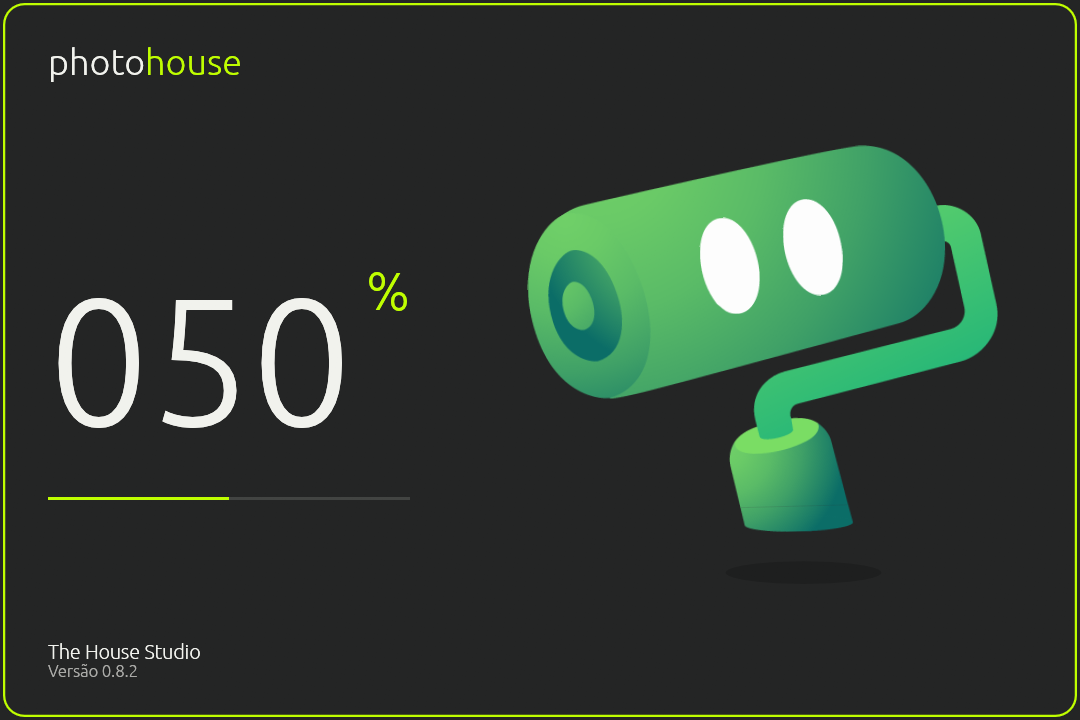
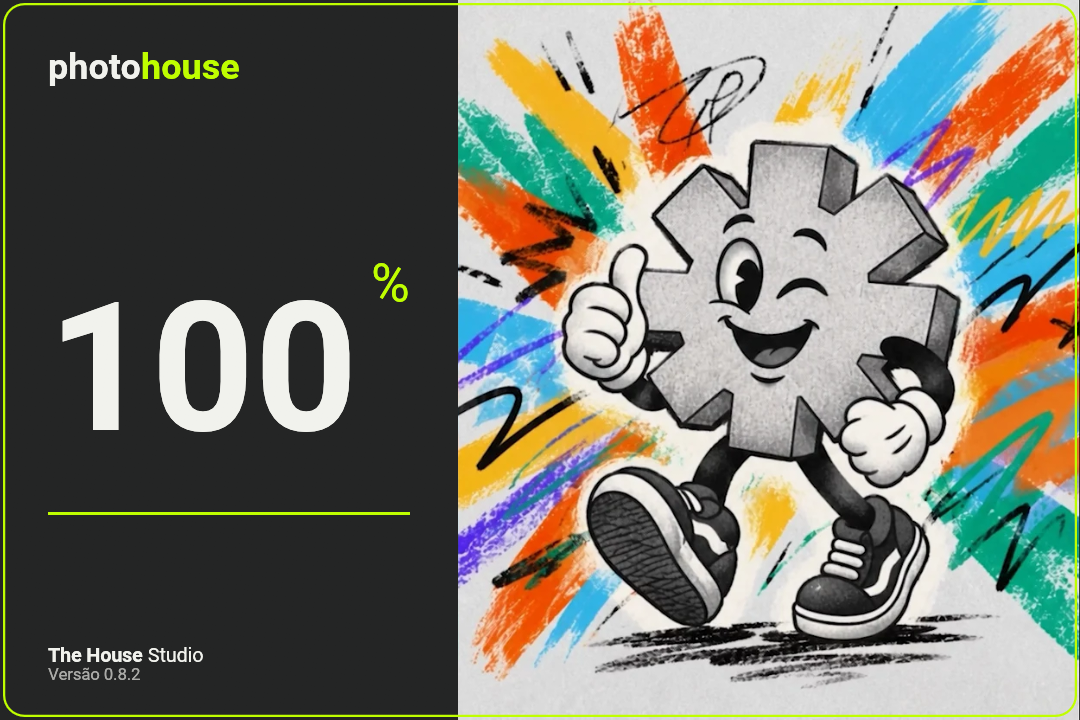
FIX: restaura abertura do checkpoint 9e0ef514

diff --git a/apps/photocraft/src/startup_splash.rs b/apps/photocraft/src/startup_splash.rs
@@ -1,42 +1,73 @@
-//! PhotoHouse's native startup window: the animated mascot (`photocraft_ui_egui::mascote`) and a counter.
+//! PhotoHouse's native startup window. One clock drives the counter and the Housinho frames.
 //! The editor waits for this short-lived child process; its own viewport is never resized.
-//! Anything that goes wrong here (no GPU, panic, Esc/Alt+F4) only skips the splash: the editor
-//! always opens afterwards. The mascot rasterizes within `max_texture_side` and draws nothing if
-//! that fails.
-use std::sync::Arc;
+use std::sync::{
+    Arc,
+    atomic::{AtomicBool, Ordering},
+};
 use std::time::{Duration, Instant};
 
 use egui::{Align2, Color32, FontFamily, FontId, Rect, Stroke, StrokeKind, Vec2};
 
 const FLAG: &str = "--photohouse-startup-splash";
-const DURATION: Duration = Duration::from_millis(1600);
+const DURATION: Duration = Duration::from_millis(4160);
+const FINAL_HOLD: Duration = Duration::from_millis(200);
+const FRAME_COUNT: usize = 52;
 const GREEN: Color32 = Color32::from_rgb(191, 254, 0);
 const SURFACE: Color32 = Color32::from_rgb(36, 37, 37);
 const INK: Color32 = Color32::from_rgb(241, 242, 237);
+const SHEET: &[u8] = include_bytes!("../../../docs/design/photohouse-loading/assets/housinho-frames.webp");
 
 pub fn requested() -> bool {
     std::env::args_os().any(|arg| arg == FLAG)
 }
 
-/// Runs the splash as a child process and waits for it. Never blocks the editor from opening.
-pub fn before_editor() {
+/// Cancellation exits the entire launch. An unavailable splash never prevents editor recovery.
+pub fn before_editor() -> bool {
     let status = std::env::current_exe().and_then(|exe| std::process::Command::new(exe).arg(FLAG).status());
     match status {
-        Ok(status) if status.success() => log::info!("PhotoHouse startup animation closed; opening editor"),
-        Ok(status) => log::warn!("PhotoHouse startup animation failed ({status}); opening editor without it"),
-        Err(error) => log::warn!("PhotoHouse startup animation could not start ({error}); opening editor without it"),
+        Ok(status) if status.success() => {
+            log::info!("PhotoHouse: startup animation reached 100%; opening editor");
+            true
+        }
+        Ok(status) if status.code() == Some(130) => false,
+        Ok(status) => {
+            log::warn!("PhotoHouse startup window exited with {status}; opening editor in recovery mode");
+            true
+        }
+        Err(error) => {
+            log::warn!("PhotoHouse startup window: {error}; opening editor without the animation");
+            true
+        }
     }
 }
 
 #[derive(Debug, PartialEq)]
 struct Progress {
     percent: u32,
+    frame: usize,
     close: bool,
 }
 
 fn progress(elapsed: Duration) -> Progress {
     let fraction = (elapsed.as_secs_f64() / DURATION.as_secs_f64()).clamp(0.0, 1.0);
-    Progress { percent: if fraction >= 1.0 { 100 } else { (fraction * 100.0).floor() as u32 }, close: elapsed >= DURATION }
+    Progress {
+        percent: if fraction >= 1.0 { 100 } else { (fraction * 100.0).floor() as u32 },
+        frame: if fraction >= 1.0 { FRAME_COUNT - 1 } else { (fraction * (FRAME_COUNT - 1) as f64).floor() as usize },
+        close: elapsed >= DURATION + FINAL_HOLD,
+    }
+}
+
+fn frame_origin(frame: usize) -> [usize; 2] {
+    let frame = frame.min(FRAME_COUNT - 1);
+    [(frame % 8) * 720, (frame / 8) * 832]
+}
+
+fn upload_frame(ctx: &egui::Context, sheet: &egui::ColorImage, frame: usize) -> Result<egui::TextureHandle, std::io::Error> {
+    if sheet.size != [5760, 5824] || ctx.input(|i| i.max_texture_side) < 832 {
+        return Err(std::io::Error::other("PhotoHouse startup frames exceed the available texture size"));
+    }
+    let image = sheet.region_by_pixels(frame_origin(frame), [720, 832]);
+    Ok(ctx.load_texture(format!("photohouse-startup-housinho-{frame}"), image, egui::TextureOptions::LINEAR))
 }
 
 fn native_options() -> eframe::NativeOptions {
@@ -55,7 +86,9 @@ fn native_options() -> eframe::NativeOptions {
     }
 }
 
-pub fn run() -> Result<(), eframe::Error> {
+pub fn run() -> Result<bool, eframe::Error> {
+    let complete = Arc::new(AtomicBool::new(false));
+    let finished = complete.clone();
     let options = native_options();
     eframe::run_native(
         "PhotoHouse — iniciando",
@@ -80,15 +113,26 @@ pub fn run() -> Result<(), eframe::Error> {
                 }
             }
             cc.egui_ctx.set_fonts(fonts);
-            Ok(Box::new(Splash { regular, bold, start: None, capture_requested: [false; 3] }))
+            let image = photocraft_codecs::decode(SHEET).map_err(|error| std::io::Error::other(error.to_string()))?;
+            if image.width() != 5760 || image.height() != 5824 {
+                return Err(std::io::Error::other("invalid PhotoHouse startup animation dimensions").into());
+            }
+            let color = egui::ColorImage::from_rgba_unmultiplied([5760, 5824], &image.to_rgba8());
+            // Preserve every original pixel without uploading the 5760×5824 atlas,
+            // which exceeds egui's default 2048 texture-side limit.
+            let textures = (0..FRAME_COUNT).map(|frame| upload_frame(&cc.egui_ctx, &color, frame)).collect::<Result<Vec<_>, _>>()?;
+            Ok(Box::new(Splash { textures, regular, bold, start: None, finished, capture_requested: [false; 3] }))
         }),
-    )
+    )?;
+    Ok(complete.load(Ordering::Relaxed))
 }
 
 struct Splash {
+    textures: Vec<egui::TextureHandle>,
     regular: FontFamily,
     bold: FontFamily,
     start: Option<Instant>,
+    finished: Arc<AtomicBool>,
     capture_requested: [bool; 3],
 }
 
@@ -98,15 +142,8 @@ impl eframe::App for Splash {
     }
 
     fn ui(&mut self, ui: &mut egui::Ui, _: &mut eframe::Frame) {
-        self.show(ui);
-    }
-}
-
-impl Splash {
-    fn show(&mut self, ui: &mut egui::Ui) {
         let ctx = ui.ctx().clone();
         self.collect_captures(&ctx);
-        // Esc skips the animation; the editor still opens (as with Alt+F4 / window close).
         if ctx.input(|i| i.key_pressed(egui::Key::Escape)) {
             ctx.send_viewport_cmd(egui::ViewportCommand::Close);
             return;
@@ -120,6 +157,7 @@ impl Splash {
         }
         self.request_capture(&ctx, state.percent);
         if state.close {
+            self.finished.store(true, Ordering::Relaxed);
             ctx.send_viewport_cmd(egui::ViewportCommand::Close);
         } else {
             ctx.request_repaint_after(Duration::from_millis(16));
@@ -134,7 +172,9 @@ impl Splash {
         let split = rect.left() + rect.width() * 0.4237;
         painter.rect_filled(rect, 0.0, SURFACE);
         let art = Rect::from_min_max(egui::pos2(split, rect.top()), rect.max);
-        photocraft_ui_egui::mascote::paint(ui, art.shrink(art.width() * 0.12), egui::Id::new("splash-mascote"));
+        if let Some(texture) = self.textures.get(state.frame) {
+            egui::Image::new((texture.id(), texture.size_vec2())).paint_at(ui, art);
+        }
         // Keep the stroke clear of Windows' rounded outer window clip.
         painter.rect_stroke(rect.shrink(2.0), 14.0, Stroke::new(1.5, GREEN), StrokeKind::Inside);
         let left = rect.left() + 32.0 * scale;
@@ -221,18 +261,6 @@ mod tests {
     use super::*;
 
     #[test]
-    fn escape_closes_only_the_splash_before_the_animation_starts() {
-        let ctx = egui::Context::default();
-        let mut splash = Splash { regular: FontFamily::Proportional, bold: FontFamily::Proportional, start: None, capture_requested: [false; 3] };
-        let mut input = egui::RawInput::default();
-        input.events.push(egui::Event::Key { key: egui::Key::Escape, physical_key: None, pressed: true, repeat: false, modifiers: Default::default() });
-        let mut out = ctx.run_ui(input, |ui| splash.show(ui));
-        out.textures_delta.clear();
-        assert!(out.viewport_output.get(&egui::ViewportId::ROOT).is_some_and(|o| o.commands.iter().any(|c| matches!(c, egui::ViewportCommand::Close))));
-        assert!(splash.start.is_none(), "Escape must skip painting and waiting for the animation");
-    }
-
-    #[test]
     fn startup_is_opaque_and_has_no_outer_margin() {
         let options = native_options();
         assert_eq!(options.viewport.transparent, Some(false));
@@ -241,12 +269,39 @@ mod tests {
     }
 
     #[test]
-    fn counter_ends_at_100_and_closes_without_extra_hold() {
-        assert_eq!(progress(Duration::ZERO), Progress { percent: 0, close: false });
-        assert_eq!(progress(Duration::from_millis(800)), Progress { percent: 50, close: false });
-        assert_eq!(progress(Duration::from_millis(1599)), Progress { percent: 99, close: false });
-        assert_eq!(progress(DURATION), Progress { percent: 100, close: true });
-        assert_eq!(progress(Duration::from_secs(u64::MAX)).percent, 100);
-        assert!(DURATION <= Duration::from_secs(2));
+    fn animation_and_counter_share_endpoints_and_hold_final_frame() {
+        assert_eq!(progress(Duration::ZERO), Progress { percent: 0, frame: 0, close: false });
+        assert_eq!(progress(Duration::from_millis(2080)), Progress { percent: 50, frame: 25, close: false });
+        assert_eq!(progress(Duration::from_millis(4159)), Progress { percent: 99, frame: 50, close: false });
+        assert_eq!(progress(DURATION), Progress { percent: 100, frame: 51, close: false });
+        assert_eq!(progress(DURATION + FINAL_HOLD), Progress { percent: 100, frame: 51, close: true });
+        assert_eq!(progress(Duration::from_secs(u64::MAX)).frame, 51);
+    }
+
+    #[test]
+    fn frames_never_reach_an_unused_sprite_cell() {
+        for frame in [0, 25, 51, usize::MAX] {
+            let [x, y] = frame_origin(frame);
+            assert!(x + 720 <= 5760 && y + 832 <= 5824);
+        }
+        assert_eq!(frame_origin(usize::MAX), frame_origin(51));
+    }
+
+    #[test]
+    fn original_frames_upload_with_the_default_2048_texture_limit() {
+        let ctx = egui::Context::default();
+        assert_eq!(ctx.input(|i| i.max_texture_side), 2048);
+        let decoded = photocraft_codecs::decode(SHEET).unwrap();
+        let sheet = egui::ColorImage::from_rgba_unmultiplied([5760, 5824], &decoded.to_rgba8());
+        for frame in [0, 25, 51] {
+            let texture = upload_frame(&ctx, &sheet, frame).unwrap();
+            assert_eq!(texture.size(), [720, 832]);
+        }
+    }
+
+    #[test]
+    fn embedded_sprite_decodes_at_the_expected_dimensions() {
+        let image = photocraft_codecs::decode(SHEET).expect("startup asset decodes");
+        assert_eq!((image.width(), image.height()), (5760, 5824));
     }
 }

diff --git a/apps/photocraft/src/main.rs b/apps/photocraft/src/main.rs
@@ -171,7 +171,11 @@ fn main() -> eframe::Result {
     // Logged like the editor (panics included); a failure only skips the splash.
     if startup_splash::requested() {
         let _ = logging::install();
-        return startup_splash::run();
+        return match startup_splash::run() {
+            Ok(true) => Ok(()),
+            Ok(false) => std::process::exit(130),
+            Err(error) => Err(error),
+        };
     }
     // First, so the panic hook and every start-up warning are recorded (`logging`).
     let logger = logging::install();
@@ -283,8 +287,8 @@ fn main() -> eframe::Result {
     let prefers_x11 = gpu_startup::read_display_server(services::prefs_file().as_deref()) == photocraft_engine::prefs::LinuxDisplayServer::X11;
     #[cfg(not(target_os = "linux"))]
     let prefers_x11 = false;
-    if control_port.is_none() && !safe_gpu && !prefers_x11 {
-        startup_splash::before_editor();
+    if control_port.is_none() && !safe_gpu && !prefers_x11 && !startup_splash::before_editor() {
+        return Ok(());
     }
 
     let control = if let Some(port) = control_port {

diff --git a/docs/design/pr-8-validacao/README.md b/docs/design/pr-8-validacao/README.md
@@ -2,12 +2,24 @@
 
 Executada em 17/10/2026, no Windows, sobre `9f28af04` com as correções desta branch.
 
+**Abertura corrigida por solicitação do usuário:** a referência vigente é o checkpoint
+`9e0ef51497a59035a241701e8dd7d802cb389611`, com Housinho e quadros originais,
+4,16 s e pausa final de 200 ms. Esc cancela o lançamento, conforme esse checkpoint.
+A captura de abertura abaixo foi substituída pela versão restaurada. O mascote
+rolinho permanece somente na tela inicial; o vídeo abaixo demonstra essa tela inicial.
+A execução do checkpoint revelou um panic por atlas de 5760 × 5824 acima do limite
+2048 da GPU. Carregar cada quadro original de 720 × 832 separadamente corrigiu a
+falha sem mudar o desenho ou reduzir a resolução. Um teste de regressão reproduz
+o limite 2048. Após essa restauração, build, Clippy de todos os alvos do aplicativo,
+formatação e os **116 testes do aplicativo** passaram; a abertura nativa terminou
+com código 0 e gerou capturas em 0%, 50% e 100%.
+
 ## Correções
 
 - Importar `Rot2` de `egui::emath`, permitindo compilar o mascote.
 - Adaptar o teste de uploads ao mapa de listas de deltas do egui 0.36.2 e remover um `mut` desnecessário.
 - Ocultar o Discord da barra superior enquanto a tela inicial está aberta; teste em 760, 1100 e 1440 pontos.
-- Exercitar Esc com entrada egui real: o splash solicita fechamento antes de iniciar a animação. A lógica desenhada foi extraída para um método compartilhado com o teste.
+- Restaurar o módulo de abertura do checkpoint; as alterações posteriores de Esc e do relógio de 1,6 s foram substituídas pelo comportamento aprovado.
 
 ## Comandos
 
@@ -16,7 +28,7 @@ Executada em 17/10/2026, no Windows, sobre `9f28af04` com as correções desta b
 | `cargo build -p photocraft` | Passou |
 | `cargo clippy -p photocraft -- -D warnings` | Passou |
 | `cargo clippy -p photocraft -p photocraft-ui-egui --all-targets -- -D warnings` | Passou |
-| `cargo test -p photocraft --bin photocraft -j 1` | 114 passaram |
+| `cargo test -p photocraft --bin photocraft -j 1` | 116 passaram após a restauração do checkpoint |
 | `cargo test -p photocraft-ui-egui` | 2.800 passaram, 12 ignorados, nenhuma falha |
 | `cargo test -p photocraft-ui-egui --lib` após o ajuste final | 2.691 passaram, 12 ignorados |
 | `cargo xtask wasm` | 24 alvos passaram, incluindo `codecs --features heif` |
@@ -27,7 +39,7 @@ O primeiro teste do aplicativo dentro do sandbox teve erros de acesso negado a a
 
 ## Comportamento e evidências
 
-- A abertura nativa foi executada e capturada com o mascote novo. O teste do contador verifica 0%, 50% em 800 ms, 99% em 1599 ms e fechamento em 1600 ms. Esc é coberto pelo novo teste; a transição por Esc não foi gravada em vídeo.
+- A abertura nativa foi executada e capturada com o Housinho do checkpoint. O teste do contador verifica 0%, 50% em 2080 ms, 99% em 4159 ms e fechamento após 4160 ms mais os 200 ms de pausa final. Esc cancela o lançamento, conforme a referência aprovada; esse gesto não foi gravado em vídeo.
 - Flutuação, piscadas, acompanhamento do ponteiro, limites da GPU e ausência de novos uploads durante a animação passaram nos testes do mascote.
 - Captura da tela inicial sem Discord, GitHub, ArtCraft ou chamada de código aberto. O site do PhotoHouse continua visível. O editor com documento aberto mantém seu botão de comunidade.
 - Novo: clique abriu o diálogo; criação de documento RGB 128 × 96, salvamento PNG e reabertura passaram no aplicativo nativo pelo canal local de controle.

diff --git a/docs/design/photohouse-loading/CHECKPOINT.md b/docs/design/photohouse-loading/CHECKPOINT.md
@@ -1,0 +1,37 @@
+# Checkpoint da tela de carregamento aprovada
+
+Este checkpoint preserva exatamente a tela do commit `005c3a9d`, aprovada na conversa:
+Housinho colorido, fundo #242525, Roboto, contorno verde #BFFE00 de 1,5 ponto
+recuado 2 pontos, cantos de 14 pontos, animação e contagem sincronizadas de 4,16s,
+com o último quadro parado em 100% antes de abrir o editor.
+
+Referência estável: `chore/checkpoint-tela-carregamento-2026-10-17`.
+O checkpoint só acrescenta este guia ao código já salvo; não inclui as alterações
+posteriores da tela inicial nem os arquivos que estavam em edição na interface.
+
+## Recuperar só a abertura
+
+Em uma branch de trabalho, examine ou extraia estes arquivos a partir da referência:
+
+- `apps/photocraft/src/startup_splash.rs`: janela, layout, cronômetro e animação.
+- `apps/photocraft/STARTUP.md`: comportamento e tipografia local.
+- `docs/design/photohouse-loading/assets/housinho-frames.webp`: quadros da animação.
+- `docs/design/photohouse-loading/assets/README.md`: origem dos assets.
+- `docs/design/photohouse-loading/`: estudo visual e fontes de geração, se necessários.
+- `ATTRIBUTION.md`: mantenha os créditos pertinentes aos assets recuperados.
+
+Exemplo para recuperar apenas o módulo e seus quadros, sem restaurar o restante da interface:
+
+```powershell
+git restore --source=chore/checkpoint-tela-carregamento-2026-10-17 -- apps/photocraft/src/startup_splash.rs apps/photocraft/STARTUP.md docs/design/photohouse-loading/assets/housinho-frames.webp
+```
+
+Depois, reaplique somente os pontos de integração de `apps/photocraft/src/main.rs`
+conforme esta referência: `mod startup_splash`, tratamento do processo filho no começo
+de `main` e chamada de `before_editor()` antes de criar o editor. Não substitua todo
+`main.rs` ao reaproveitar em outra versão. Confira também as APIs já usadas do crate
+`ui-egui` (fontes), codecs e ícone da janela. Compile e teste após a integração.
+
+Roboto é carregada de `fonts/Roboto-Regular.ttf` e `fonts/Roboto-Bold.ttf` ao lado
+do executável. As fontes e sua licença são arquivos locais, fora do Git; sem elas,
+a abertura usa a fonte padrão. O executável também não faz parte deste checkpoint.

diff --git a/apps/photocraft/STARTUP.md b/apps/photocraft/STARTUP.md
@@ -7,22 +7,21 @@ Assim, o tamanho, a posição e a persistência do editor não recebem a geometr
 da abertura. Não há navegador, HTML ou dependência nova em tempo de execução.
 
 A janela usa o modo escuro aprovado: fundo `#242525`, acentos `#BFFE00`,
-proporção 3:2, assinatura e versão obtida de `CARGO_PKG_VERSION`. À direita fica
-o mascote animado (`photocraft_ui_egui::mascote`, camadas SVG em
-`assets/mascote/camadas/`), o mesmo da tela inicial; ele é rasterizado dentro do
-limite `max_texture_side` da GPU. O relógio de 1,6 segundo controla o
-percentual; ao atingir 100%, a abertura fecha e o editor inicia, sem pausa extra.
+proporção 3:2, assinatura e versão obtida de `CARGO_PKG_VERSION`. Uma textura
+compartilhada com o estudo visual fornece os 52 quadros de alta resolução.
+Cada quadro original é enviado separadamente à GPU em 720 × 832, evitando que
+o atlas completo exceda o limite de textura, sem redimensionar a arte.
+O relógio de 4,16 segundos controla percentual e quadro; ao atingir 100%, o
+quadro final permanece parado por 200 ms, a abertura fecha e o editor inicia.
 Este percentual descreve a animação de abertura, não a medição das tarefas do editor.
 
 A janela é opaca, com contorno verde `#BFFE00` de 1,5 ponto, recuado 2 pontos
 para dentro e com cantos de 14 pontos, evitando o recorte externo do Windows.
 Não há brilho ou margem externa. O conteúdo ocupa
-toda a área de 720 × 480 pontos, com fundo escuro até as bordas e o mascote à direita.
+toda a área de 720 × 480 pontos, com fundo escuro até as bordas e a arte à direita.
 
-Esc, Alt+F4 ou fechar a abertura apenas pula a animação; o editor abre
-normalmente. Qualquer falha da abertura (inclusive pânico, registrado no log)
-faz o editor abrir sem ela. A abertura não roda com `--control` (automação),
-`--safe-gpu` nem com a preferência X11 no Linux.
+Esc ou fechar a abertura cancela o lançamento inteiro. Falha ao criar a janela
+de abertura é registrada e permite abrir o editor para recuperação.
 
 ## Tipografia local
 

diff --git a/ATTRIBUTION.md b/ATTRIBUTION.md
@@ -10,7 +10,7 @@ next to them.
 
 | Path | Title | Author | Source | License / authorization |
 |---|---|---|---|---|
-| `docs/design/photohouse-loading/assets/housinho-frames.webp` | Housinho animation frames for synchronized playback | Not specified by user | Generated by `build_frames.py` directly from the user-supplied `ANIMAÇÃO.mp4`, 52 complete frames at 720 × 832 | User supplied the video and authorized the prototype and native local startup integration on 2026-10-17; see adjacent `assets/README.md`. No separate public license supplied. |
+| `docs/design/photohouse-loading/assets/housinho-frames.webp` (also embedded by `apps/photocraft/src/startup_splash.rs`) | Housinho animation frames for synchronized playback | Not specified by user | Generated by `build_frames.py` directly from the user-supplied `ANIMAÇÃO.mp4`, 52 complete frames at 720 × 832 | User supplied the video and authorized the prototype and native local startup integration on 2026-10-17; see adjacent `assets/README.md`. No separate public license supplied. |
 | `docs/design/photohouse-loading/assets/housinho.gif` | Housinho loading-screen animation | Not specified by user | Generated from user-supplied `ANIMAÇÃO.mp4`, 2026-10-17; optimized GIF at 720 × 832, 52 frames | User explicitly supplied the video for conversion and use in the prototype; versioning authorized in the ongoing feature branch/PR. No separate public license supplied; see adjacent `assets/README.md`. |
 | `docs/design/photohouse-loading/assets/housinho-base.webp` | ILLUSTRATOR-JANELA-DE-ABETURA — vertical loading-screen study | Not specified by user | User attachment, 2026-10-17, 912 × 1055; compressed copy retaining the original composition | User explicitly supplied the art for the prototype and requested its versioning in the feature branch/PR. No separate public license supplied; see adjacent `assets/README.md`. |
 
